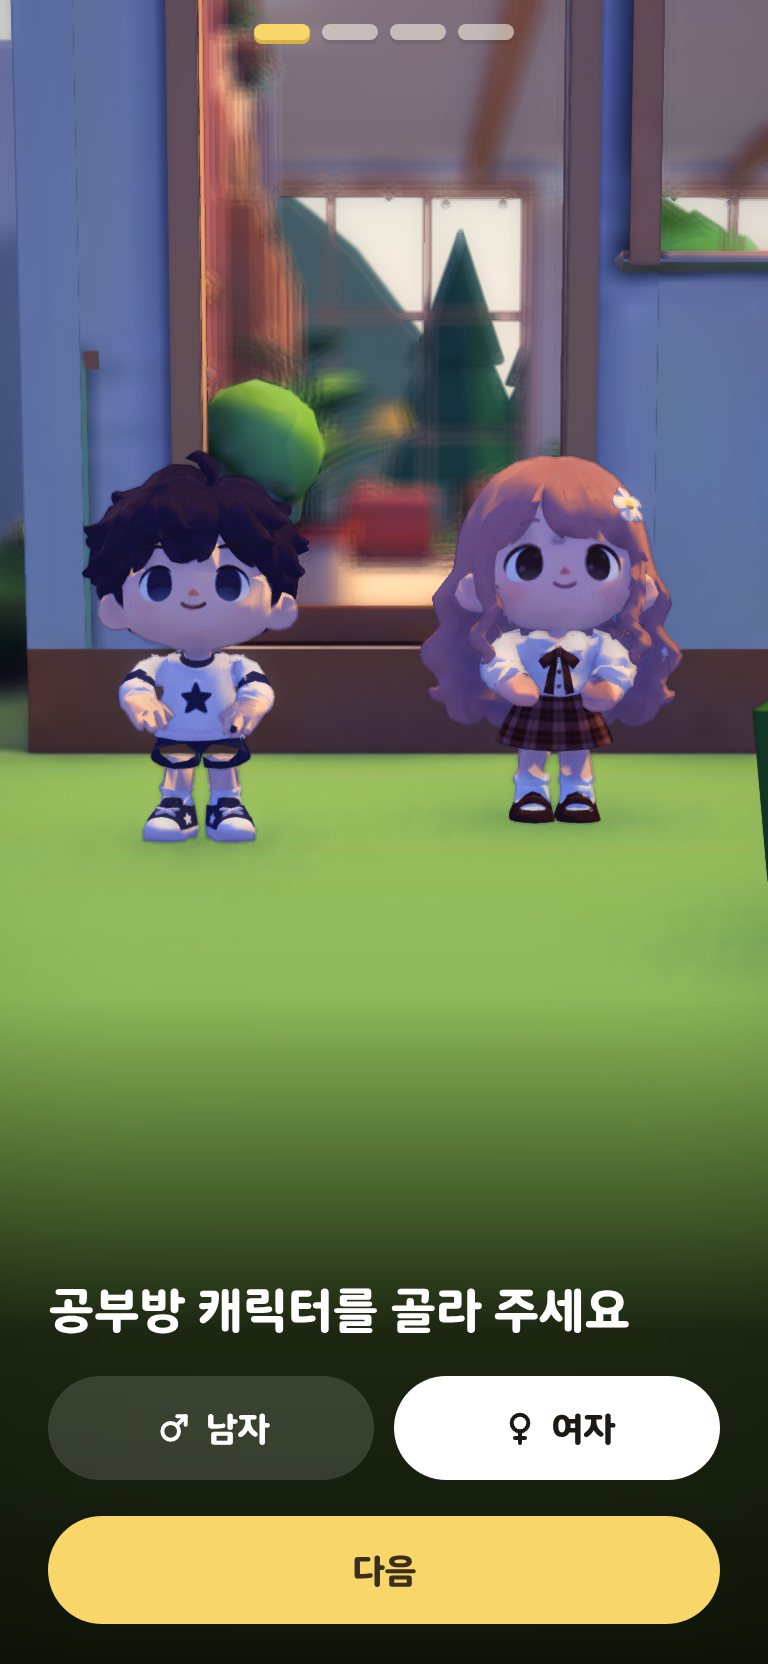
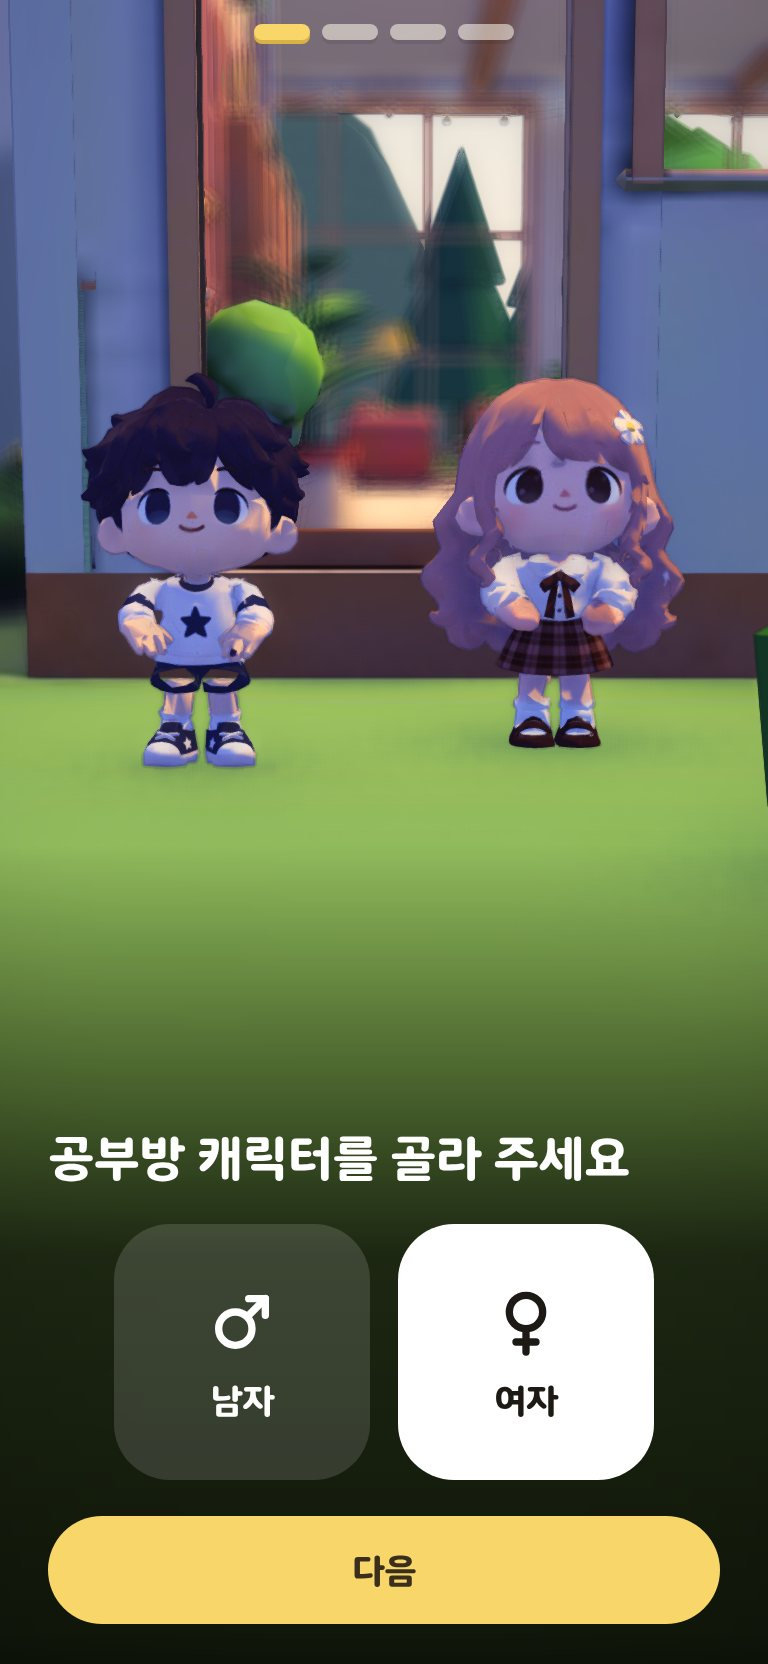
fix(web/onboarding): make gender buttons square
사용자 요청(2026-11-24): 캐릭터 고르기 남·여 단추를 가로세로 1:1로 바꾸고, 아이콘(40)을 위·이름을 아래에
둔다. 한 변은 최대 128px로 두어 위 캐릭터 칸을 덜 가린다.

Claude-Session: https://claude.ai/code/session_01UNZt6MP28b6hnoNrji3C1C

diff --git a/frontend/src/feature/study/onboarding/onboarding.module.css b/frontend/src/feature/study/onboarding/onboarding.module.css
@@ -56,14 +56,15 @@
 .body > * { flex-shrink: 0; }
 .title { margin: 0 0 18px; font-family: var(--font-round); font-size: 24px; font-weight: 800; line-height: 1.3; outline: none; word-break: keep-all; text-wrap: balance; }
 
-.genders { display: flex; gap: 10px; }
+.genders { display: flex; justify-content: center; gap: 14px; }
+/* 정사각형 단추(사용자 요청 2026-11-24: 가로세로 1:1). 한 변은 최대 128px로 두어 캐릭터 칸을 덜 가린다. */
 .choice {
-  flex: 1 1 0; height: 52px; border-radius: 999px; cursor: pointer;
+  flex: 1 1 0; max-width: 128px; aspect-ratio: 1 / 1; border-radius: 28px; cursor: pointer;
+  display: flex; flex-direction: column; align-items: center; justify-content: center; gap: 8px;
   border: 0; background: rgb(255 255 255 / 0.14); color: #fff;
   font: inherit; font-family: var(--font-round); font-size: 17px; font-weight: 800;
   transition: background 140ms ease-out, color 140ms ease-out;
 }
-.choice { display: inline-flex; align-items: center; justify-content: center; gap: 6px; }
 .choiceOn { background: #fff; color: #1d1a16; }
 .choice:focus-visible, .primary:focus-visible, .secondary:focus-visible { outline: 3px solid var(--i-sun); outline-offset: 2px; }
 

diff --git a/frontend/src/feature/study/onboarding/OnboardingPanel.tsx b/frontend/src/feature/study/onboarding/OnboardingPanel.tsx
@@ -115,7 +115,7 @@ export function OnboardingPanel(props: {
                   className={`${s.choice} ${gender === g ? s.choiceOn : ''}`}
                   onClick={() => props.onGender(g)}
                 >
-                  {g === 'male' ? <IconGenderMale size={20} stroke={2.4} aria-hidden /> : <IconGenderFemale size={20} stroke={2.4} aria-hidden />}
+                  {g === 'male' ? <IconGenderMale size={40} stroke={2.2} aria-hidden /> : <IconGenderFemale size={40} stroke={2.2} aria-hidden />}
                   {genderLabel(g)}
                 </button>
               ))}

diff --git a/docs/design-parity/exceptions.md b/docs/design-parity/exceptions.md
@@ -25,5 +25,5 @@
 - **공부 요약("오늘의 공부" 시트, 앱에 없는 화면)**: 스토리에 올려 오늘 공부한 결과를 자랑하는 클립보드 프로필 시트 한 장. 구성은 사용자가 준 클립보드 프로필 레퍼런스(2026-11-23)를 따르되 캐릭터·로고·문구는 쓰지 않는다. 판·집게·모눈 종이·티켓·클립·테이프·낙서는 Codex로 그린 일러스트(`docs/sources.md`)이고, 집게는 판과 따로 그려 판 위 가장자리에 걸쳐 위로 솟게 얹는다. 티켓은 청록 띠·바코드 절취부가 있는 승차권에 "STUDY VILLAGE"를 둥근 글꼴로 얹는다. 글자·사진·스티커는 캔버스로 얹는다. 정리 규칙(사용자 피드백 2026-11-24 "예쁜데 중구난방"): 글꼴은 숫자=둥근 글꼴, 라벨·메모=손글씨(Gaegu) 둘만. 색은 데이터=잉크 갈색, 손글씨·장식=청록, 강조=숫자 밑 햇살 형광펜 셋만. 큰 장식은 뜻이 있는 것(사진 테이프·티켓과 클립·폴라로이드 카메라 스티커·"나!" 화살표·방 순위 트로피)만 두고 떠 있던 앱 스티커·워터마크·인덱스 탭은 뺐다. 자잘한 손그림(사용자 요청 2026-11-24)은 청록·노랑 낙서만 남겨 라벨 앞 작은 아이콘(별·꽃·음표·반짝이)과 정해 둔 빈자리 몇 곳("나!" 옆 꽃, 구분선 근처 별·음표)에 작게 둔다. 배치: 제목 자리에 "6시간 25분 공부"(둥근 글꼴 청록 + 흰 테두리, 숫자 크게·단위와 "공부" 작게), 위 칸은 정면 프로필 사진 + 연속 공부(불꽃)·방 순위(트로피, 서버 값이 있을 때만), 손그림 구분선, 아래 칸은 이번 세션·공부일 + 3인칭 "오늘의 공부방" 폴라로이드. 이름·목표·과목은 넣지 않는다(사용자 결정). 사진은 끝내기 직전에 3D 방에서 두 장 찍는다(정면은 벽이 가리지 않게 가까운 면을 사람 앞 0.75m까지 당김). 사진이 없으면 시계 무늬 빈 칸. 방 순위는 서버 랭킹(계획 5단계)이 없어 실제 흐름에서는 줄을 숨기고 개발용 표본 주소에서만 채운다. 공부방 위에 시트와 섬 단추(이미지 저장·공유(지원 시)·닫기)만 뜨고 방은 흐리지 않고 검정 35%로만 어둡게 한다. 저장 이미지(스토리 1080×1920)는 시계 무늬 호수 위 같은 시트 + StudyVillage. 섬 팔레트 낮 값으로 고정. 개발 빌드 전용 상시 확인 주소: `/?recap=goal`, `/?recap=more`, `/?recap=plain` — `recap/useRecapDemo.ts`. 캡처: `recap/sheet_modal.png`.
 - **공부방 태그·추천(앱에 없는 기능)**: 공부방 목록 맨 위에 "나와 같은 공부" 칸(밤하늘 위 흰 제목, 내 태그 알약, 오른쪽 "태그 수정" 섬 단추, 아래 같은 카드 2열). 내 태그가 없으면 같은 자리에 종이 카드 안내와 "태그 고르기" 햇살 단추. 겹치는 방이 없으면 빈 상태 그림 대신 한 줄 안내(방이 많아 보여야 해서 큰 빈 그림을 두지 않음). 카드에는 소개 아래 초록 `#태그` 한 줄. "내 공부 태그" 시트는 과목 고르기 시트(PaperSheet·턱 있는 알약 칩·둥근 입력칸)를 따르고, 고른 태그는 초록 알약. 문구는 `l10n/web_tags_ko.ts`(새로 씀). 검색 중에는 추천 칸을 숨긴다. 캡처: `tags/rooms_recommended_mobile.jpg`, `tags/my_tags_sheet.jpg`. 사용자 결정(2026-11-23, `docs/plan/study-tags.md`).
 - **월드 고정 하늘·가까운 면**: 앱은 하늘을 화면 한 장으로 그려 카메라를 돌려도 달·해가 화면에 붙어 있다. 웹은 카메라를 따라다니는 하늘 구(`three/skyDome.ts`)에 그려 달·해·별이 창문과 함께 움직이고(해·달은 자리들이 보는 쪽 하늘을 가로지름), 카메라 가까운 면을 0.1→0.3m, 먼 면을 80m로 바꿔 창틀·문틀·벽·그림 사이 깊이 경쟁을 줄였다. 사용자 버그 신고(2026-11-23).
-- **첫 가입 온보딩(앱에 없는 흐름, 사용자 결정 2026-11-23·24)**: 앱은 공부방 첫 방문 때 소개 카드(`studyOnboarding*`)만 넘긴다. 웹은 4단계: ① 카페 서쪽 문밖 잔디에서 남자·여자 캐릭터가 나란히 서 있고 누르거나 아래 ♂·♀ 아이콘 단추로 고른다(처음엔 아무것도 고르지 않고 "다음" 단추도 숨김, 캐릭터 발밑 이름 알약 없음 — 사용자 요청 2026-11-24. 고른 쪽이 한 걸음 나와 손을 흔든다), ② 이름 — 머리 위 이름표가 입력대로 바뀐다, ③ 목표 태그(0개면 건너뛰기, 고른 태그가 이름표 위에 붙는다), ④ 고른 캐릭터가 문으로 걸어 들어가 내 자리(공용 테이블·개인 책상 0–18번 중 무작위)에 앉는 것을 카메라가 따라간 뒤 공부 탭 위 코치 마크 4장(미니 타이머·사운드·공부방 탭·통계 탭). 1–3단계 글·단추는 카드 없이 화면 아래 검은 그라데이션 위 흰 제목 한 줄과 테두리 없는 알약 단추(사용자 요청 2026-11-24: "쓸데없는 모달 UI 없애고", "필요없는 description, border 없애"). 캐릭터 GLB에 애니메이션 클립이 없어 서기·걷기·손 흔들기는 앉은 자세와 같은 방식으로 관절을 돌려 만든다(`room3d/domain/actorMotion.ts`, 사용자 결정). 문밖·통로 좌표는 `build_study_room_v2.py`에서 읽었다. 걸어 들어가는 동안 벽 윗부분을 걷어 문밖 카메라가 벽 너머를 본다. 줄인 움직임 설정이면 걷기·흔들기 없이 바로 자리로 옮긴다. 캡처: `docs/design-parity/onboarding/`
+- **첫 가입 온보딩(앱에 없는 흐름, 사용자 결정 2026-11-23·24)**: 앱은 공부방 첫 방문 때 소개 카드(`studyOnboarding*`)만 넘긴다. 웹은 4단계: ① 카페 서쪽 문밖 잔디에서 남자·여자 캐릭터가 나란히 서 있고 누르거나 아래 ♂·♀ 아이콘 정사각형 단추(1:1, 한 변 최대 128px)로 고른다(처음엔 아무것도 고르지 않고 "다음" 단추도 숨김, 캐릭터 발밑 이름 알약 없음 — 사용자 요청 2026-11-24. 고른 쪽이 한 걸음 나와 손을 흔든다), ② 이름 — 머리 위 이름표가 입력대로 바뀐다, ③ 목표 태그(0개면 건너뛰기, 고른 태그가 이름표 위에 붙는다), ④ 고른 캐릭터가 문으로 걸어 들어가 내 자리(공용 테이블·개인 책상 0–18번 중 무작위)에 앉는 것을 카메라가 따라간 뒤 공부 탭 위 코치 마크 4장(미니 타이머·사운드·공부방 탭·통계 탭). 1–3단계 글·단추는 카드 없이 화면 아래 검은 그라데이션 위 흰 제목 한 줄과 테두리 없는 알약 단추(사용자 요청 2026-11-24: "쓸데없는 모달 UI 없애고", "필요없는 description, border 없애"). 캐릭터 GLB에 애니메이션 클립이 없어 서기·걷기·손 흔들기는 앉은 자세와 같은 방식으로 관절을 돌려 만든다(`room3d/domain/actorMotion.ts`, 사용자 결정). 문밖·통로 좌표는 `build_study_room_v2.py`에서 읽었다. 걸어 들어가는 동안 벽 윗부분을 걷어 문밖 카메라가 벽 너머를 본다. 줄인 움직임 설정이면 걷기·흔들기 없이 바로 자리로 옮긴다. 캡처: `docs/design-parity/onboarding/`
 - **캐릭터 프로필 시트(앱 studyMember 시트의 일부만)**: 공부방에서 캐릭터를 누르면 이름과 공개 태그를 보인다(사용자 결정 2026-11-23). 웹 공부방에는 아직 나만 앉아 있어 내 프로필만 열리고, 앱 시트의 이번 세션·방 순위·신고·친구 요청 칸은 방 멤버가 붙을 때 더한다.
